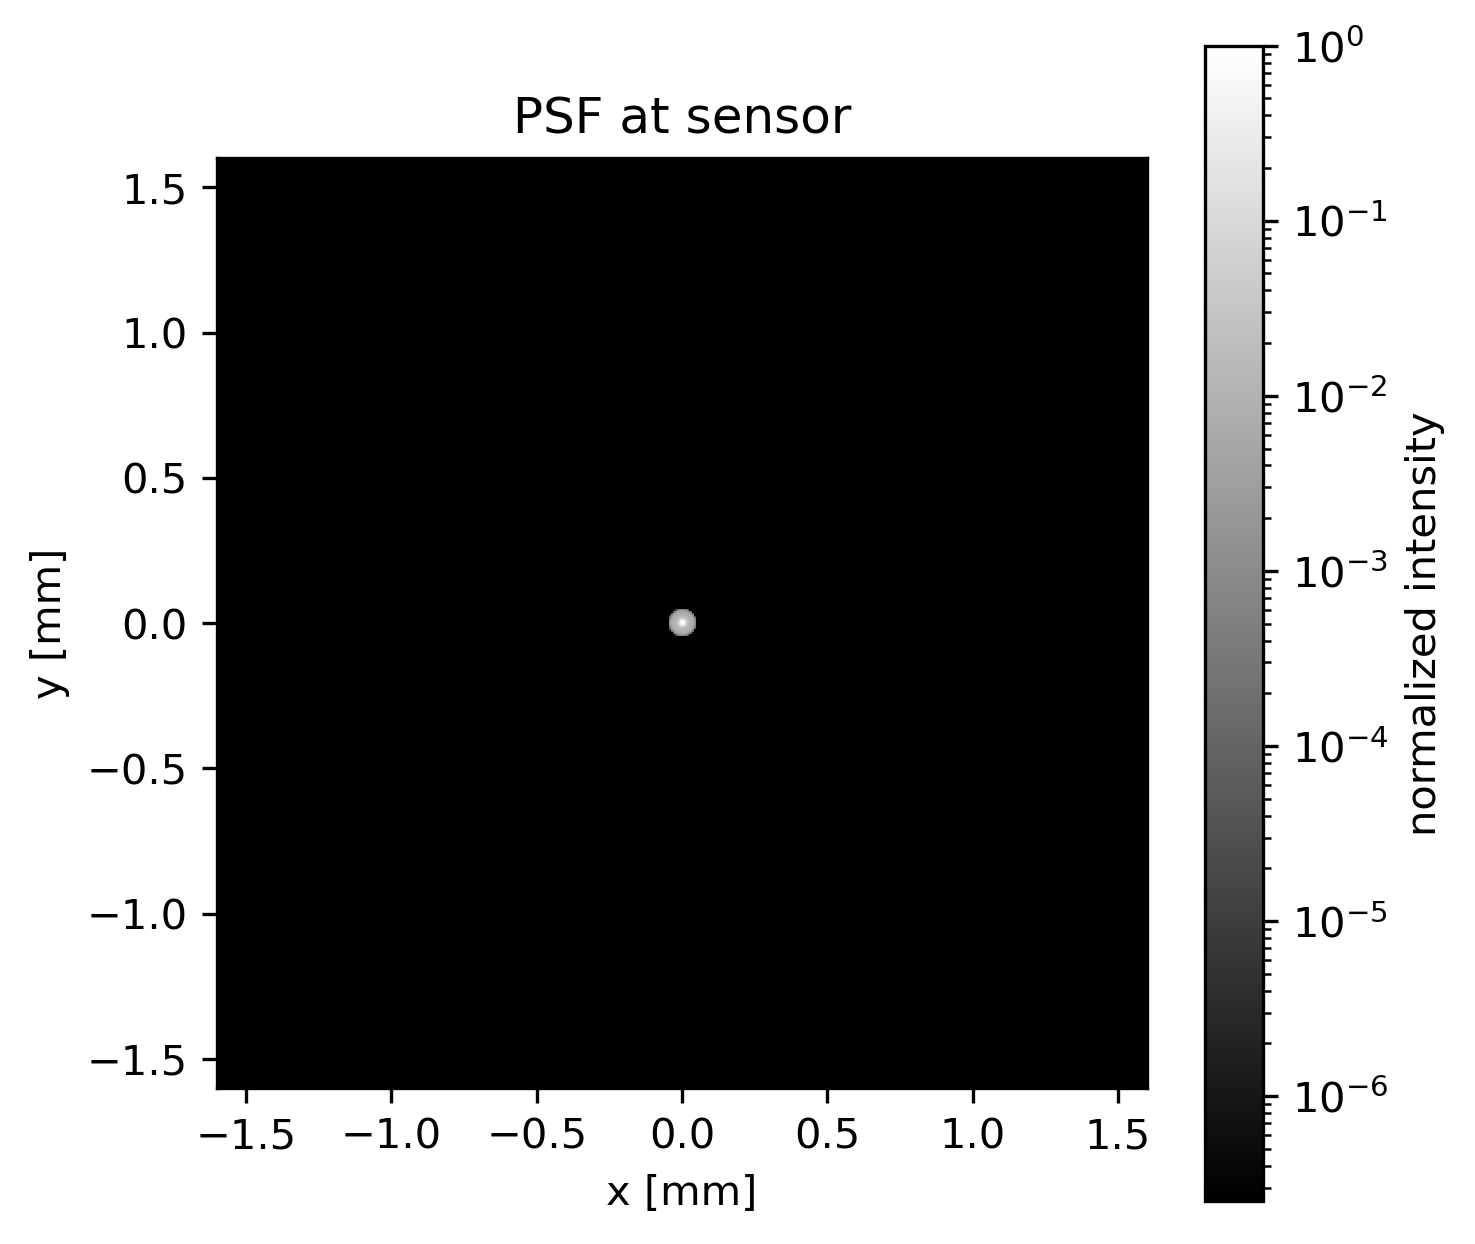
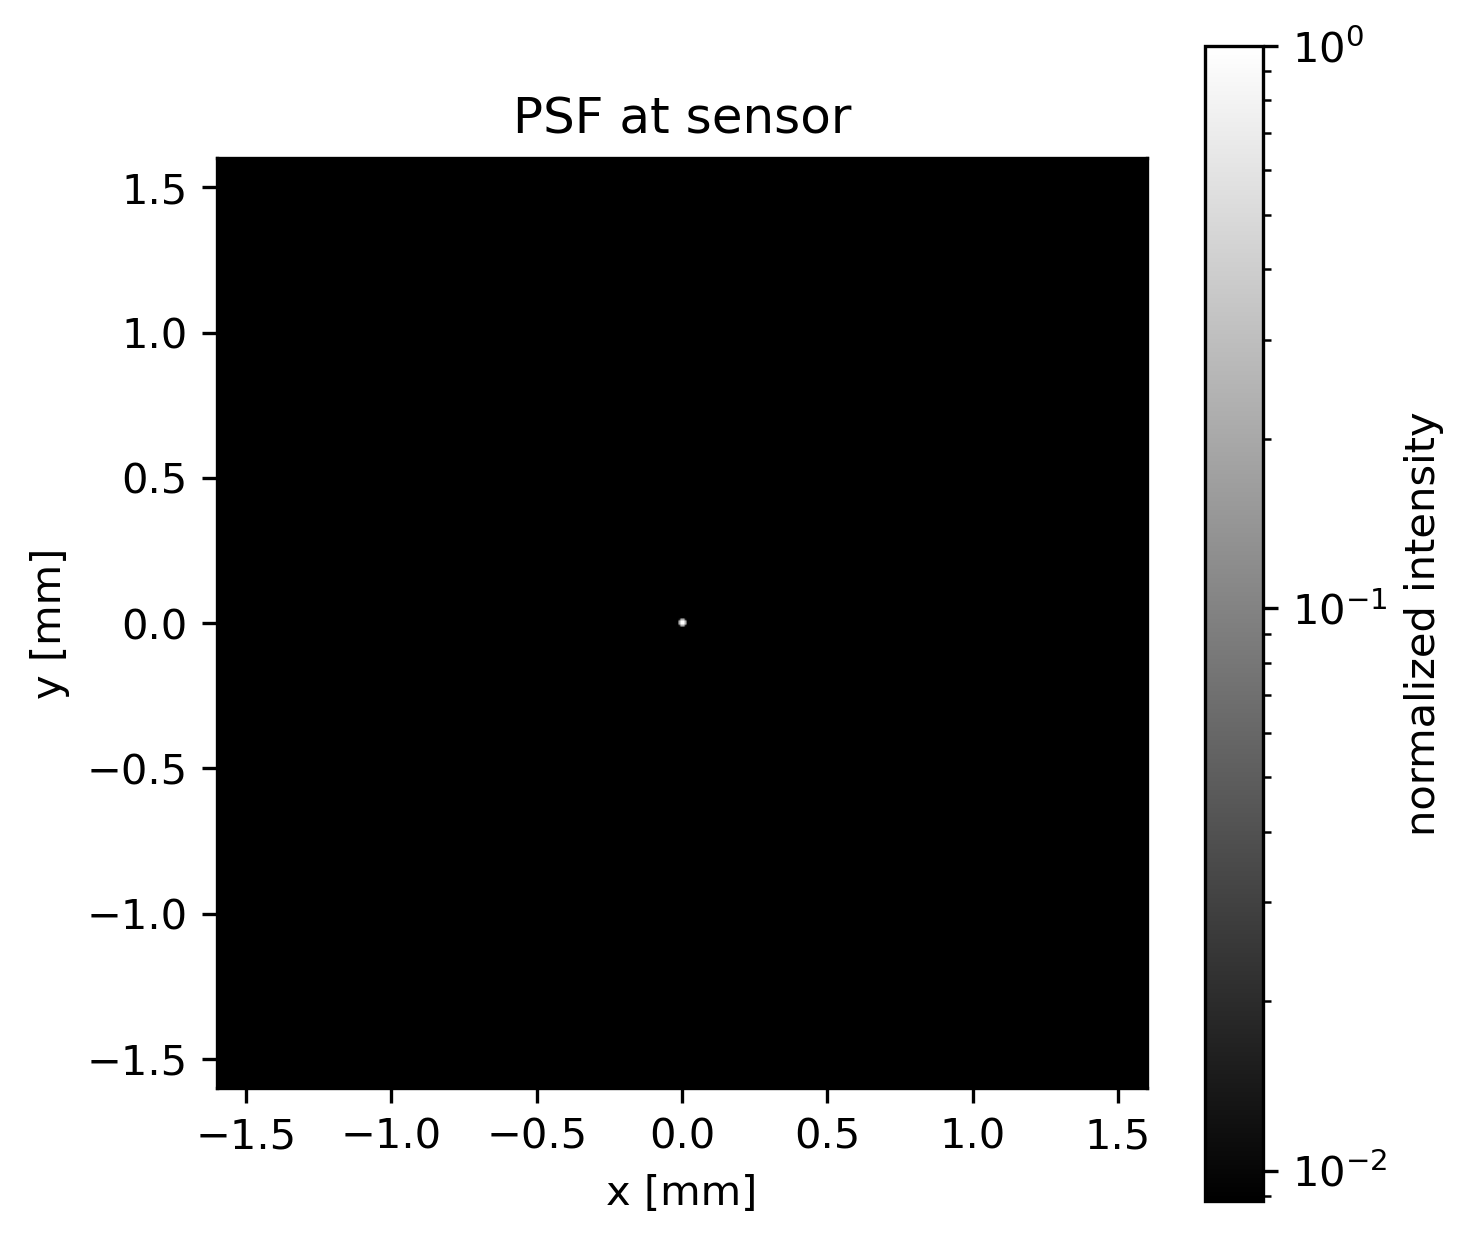
return lambda sweep setting

diff --git a/main.py b/main.py
@@ -129,7 +129,7 @@ def run_sweep_lambda(args) -> None:
     device = torch.device("cuda" if (args.cuda and torch.cuda.is_available()) else "cpu")
     pixel_size_mm = float(args.h) / float(args.M[0])
     lens = build_lens(
-        R1=args.R1, T=args.T, R2=args.R2, LD=args.LD, OD=args.OD*2, D2=args.D2,
+        R1=args.R1, T=args.T, R2=args.R2, LD=args.LD, OD=args.OD, D2=args.D2,
         pixel_size_mm=pixel_size_mm, film_M=args.M, device=device,
         stop_after_s2_mm=args.stop_after_s2_mm, add_explicit_stop=(not args.no_stop),
     )
